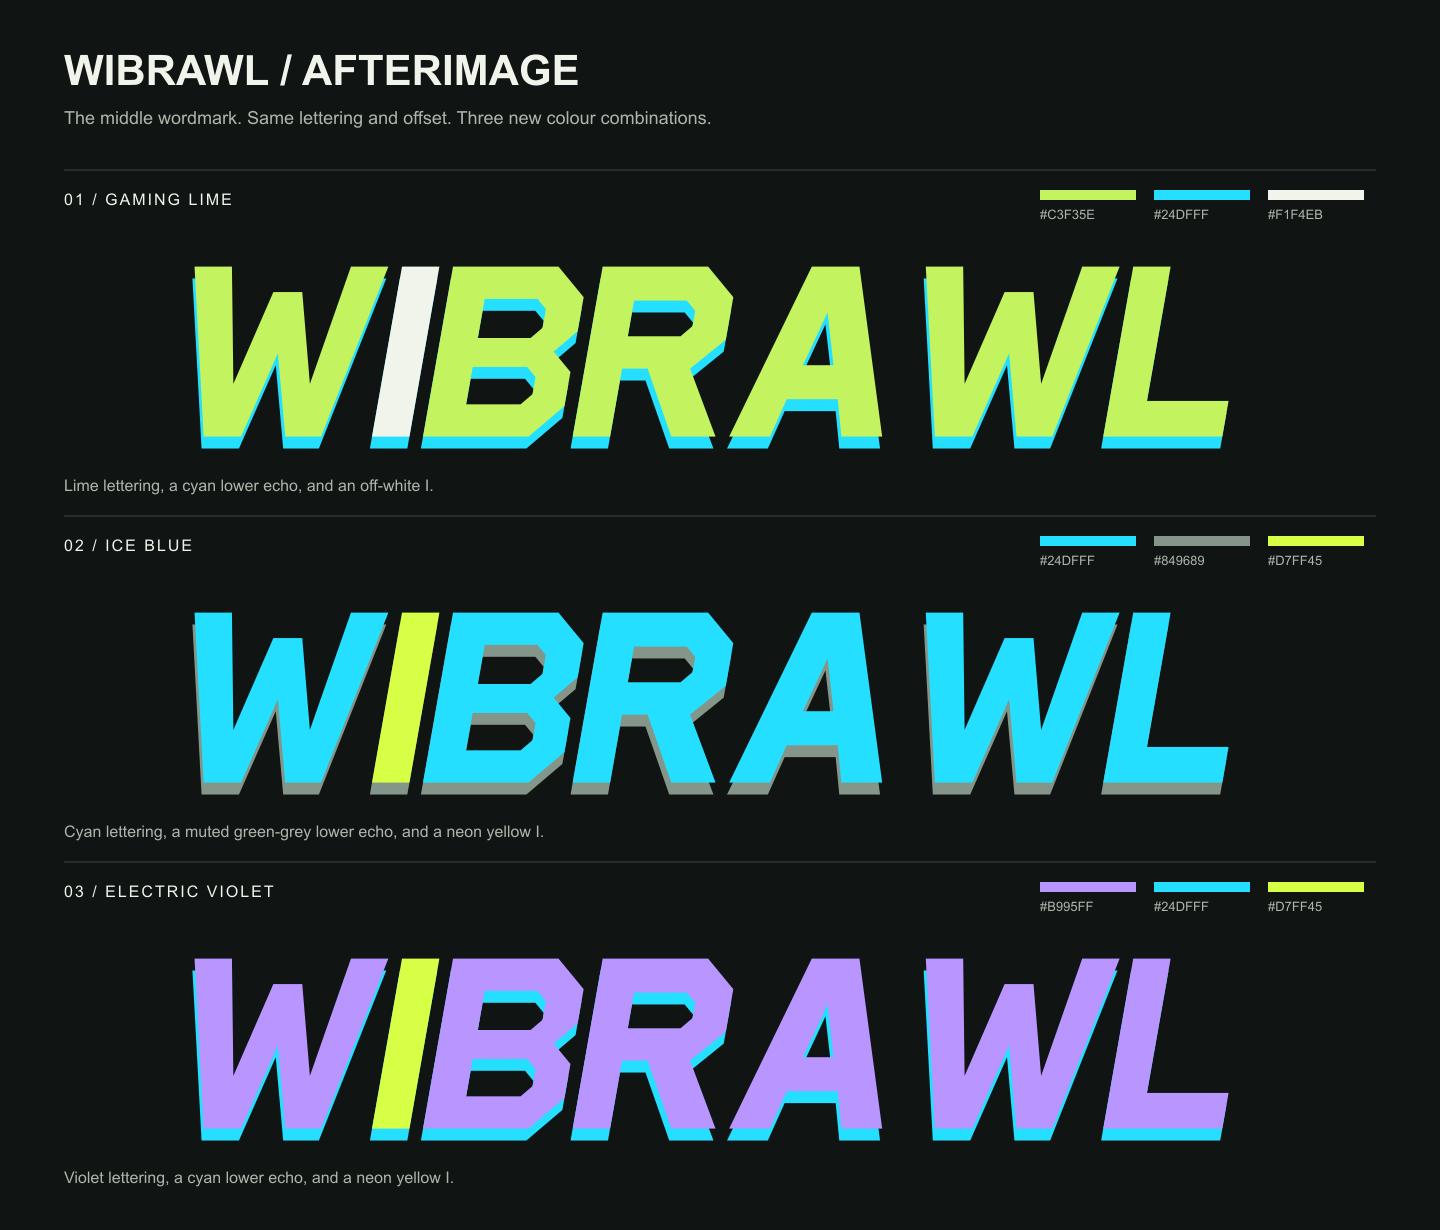
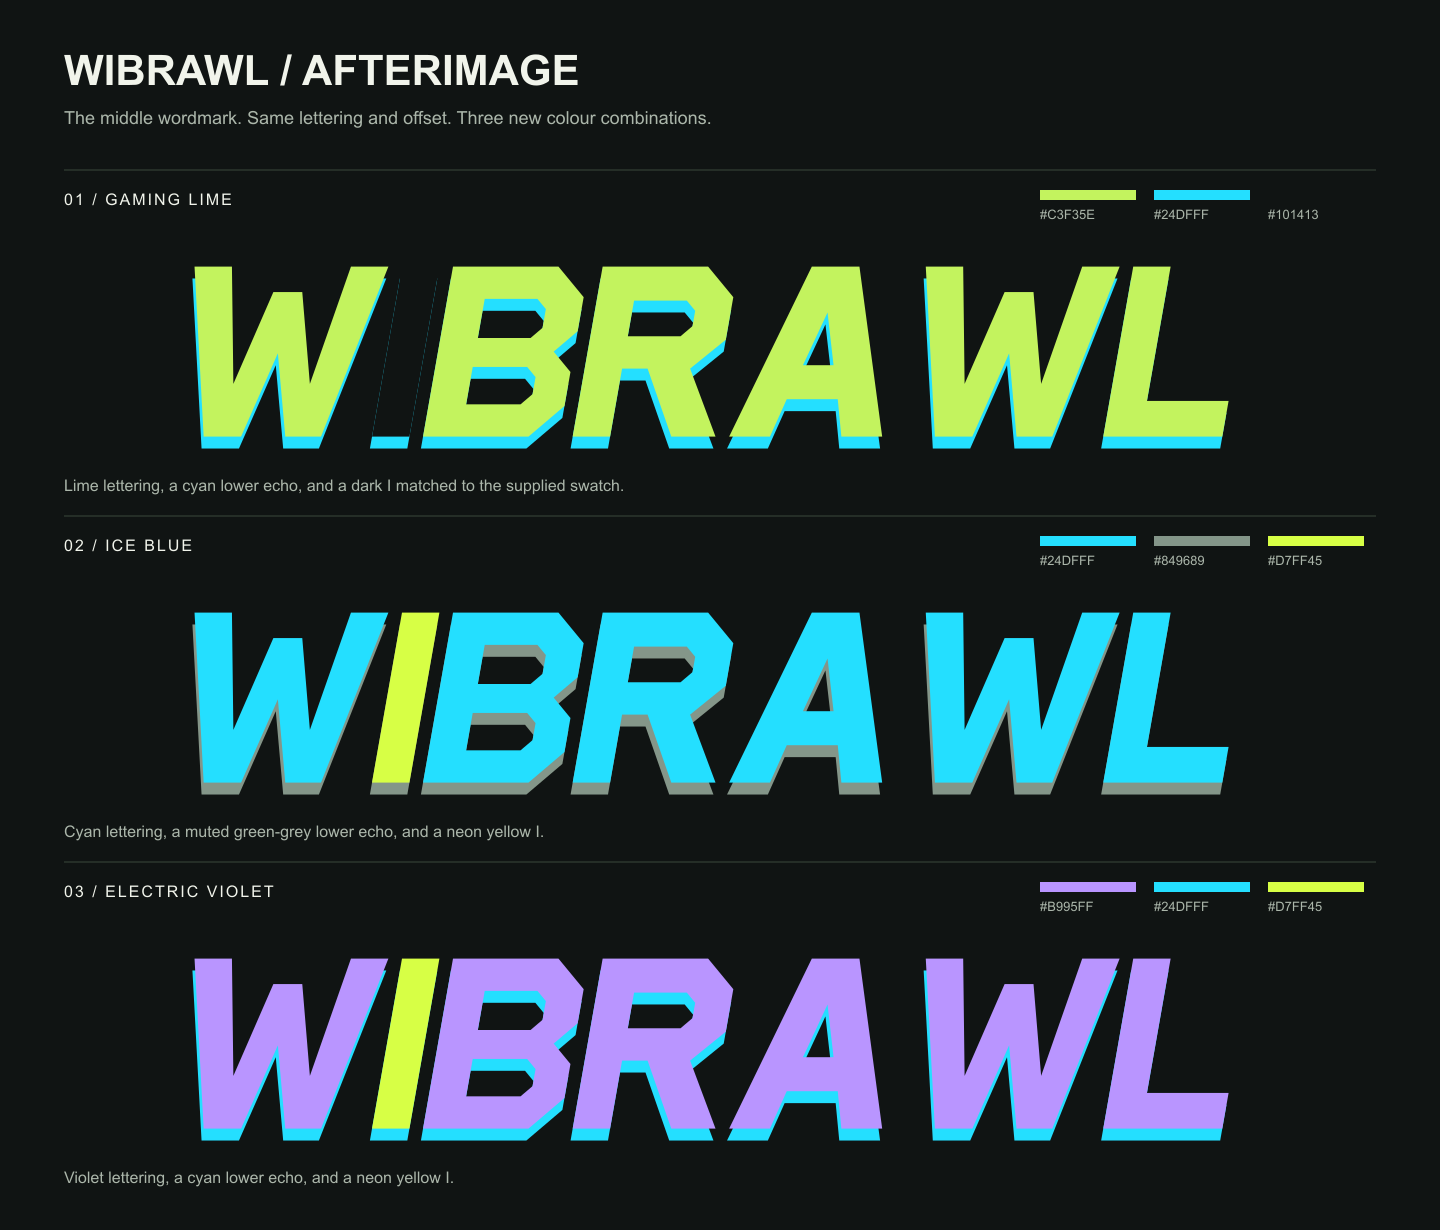
Match Afterimage I accent to supplied dark swatch

Changed region(s): [[0.25, 0.2163, 0.4375, 0.4016], [0.875, 0.1545, 0.9375, 0.1854]]

diff --git a/design/wibrawl-afterimage/index.html b/design/wibrawl-afterimage/index.html
@@ -1,3 +1,3 @@
 <!doctype html><html lang="en"><head><meta charset="utf-8"><meta name="viewport" content="width=device-width,initial-scale=1"><title>WIBRAWL / Afterimage colours</title><style>
 *{box-sizing:border-box}body{margin:0;background:#101413;color:#F1F4EB;font-family:Arial,sans-serif}main{max-width:1200px;margin:auto;padding:48px 32px}h1{font-size:36px;letter-spacing:-1px}h2{font-size:16px}p{color:#ABB6AA;line-height:1.6}article{padding:28px 0;border-top:1px solid #39473B}article img{display:block;width:100%;margin:24px 0}a{color:#C3F35E;text-underline-offset:5px}@media(max-width:600px){main{padding:28px 20px}h1{font-size:28px}}
-</style></head><body><main><h1>WIBRAWL / AFTERIMAGE</h1><p>The selected middle wordmark, with three alternative colour combinations.</p><article><h2>Gaming lime</h2><img src="wibrawl-gaming-lime.svg" alt="Lime lettering, a cyan lower echo, and an off-white I."/><p>Lime lettering, a cyan lower echo, and an off-white I.</p><a href="wibrawl-gaming-lime.svg" download>Download SVG</a></article><article><h2>Ice blue</h2><img src="wibrawl-ice-blue.svg" alt="Cyan lettering, a muted green-grey lower echo, and a neon yellow I."/><p>Cyan lettering, a muted green-grey lower echo, and a neon yellow I.</p><a href="wibrawl-ice-blue.svg" download>Download SVG</a></article><article><h2>Electric violet</h2><img src="wibrawl-electric-violet.svg" alt="Violet lettering, a cyan lower echo, and a neon yellow I."/><p>Violet lettering, a cyan lower echo, and a neon yellow I.</p><a href="wibrawl-electric-violet.svg" download>Download SVG</a></article></main></body></html>
+</style></head><body><main><h1>WIBRAWL / AFTERIMAGE</h1><p>The selected middle wordmark, with three alternative colour combinations.</p><article><h2>Gaming lime</h2><img src="wibrawl-gaming-lime.svg" alt="Lime lettering, a cyan lower echo, and a dark I matched to the supplied swatch."/><p>Lime lettering, a cyan lower echo, and a dark I matched to the supplied swatch.</p><a href="wibrawl-gaming-lime.svg" download>Download SVG</a></article><article><h2>Ice blue</h2><img src="wibrawl-ice-blue.svg" alt="Cyan lettering, a muted green-grey lower echo, and a neon yellow I."/><p>Cyan lettering, a muted green-grey lower echo, and a neon yellow I.</p><a href="wibrawl-ice-blue.svg" download>Download SVG</a></article><article><h2>Electric violet</h2><img src="wibrawl-electric-violet.svg" alt="Violet lettering, a cyan lower echo, and a neon yellow I."/><p>Violet lettering, a cyan lower echo, and a neon yellow I.</p><a href="wibrawl-electric-violet.svg" download>Download SVG</a></article></main></body></html>

diff --git a/design/wibrawl-afterimage/README.md b/design/wibrawl-afterimage/README.md
@@ -4,11 +4,11 @@ Uses the middle wordmark from the supplied reference: `design/wibrawl-logo/02-af
 
 | Variant | Lettering | Lower echo | I accent |
 | --- | --- | --- | --- |
-| Gaming lime | `#C3F35E` | `#24DFFF` | `#F1F4EB` |
+| Gaming lime | `#C3F35E` | `#24DFFF` | `#101413` |
 | Ice blue | `#24DFFF` | `#849689` | `#D7FF45` |
 | Electric violet | `#B995FF` | `#24DFFF` | `#D7FF45` |
 
-The Gaming lime colour and the comparison background `#101413` come from the Wibrawl website's Gaming theme. The violet version explores a new accent palette.
+The Gaming lime colour and the comparison background `#101413` come from the Wibrawl website's Gaming theme. The Gaming lime variant's formerly white I now uses the exact solid colour from the supplied swatch: `#101413`. On the same dark background its main face blends into the background, with the cyan echo remaining visible. The violet version explores a new accent palette.
 
 `wibrawl-gaming-lime.svg`, `wibrawl-ice-blue.svg`, and `wibrawl-electric-violet.svg` are transparent scalable vector masters. Each contains custom path lettering without fonts, external assets, scripts, or bitmap content. `wibrawl-original.svg` preserves the supplied design's original cyan, pink and yellow combination.
 
